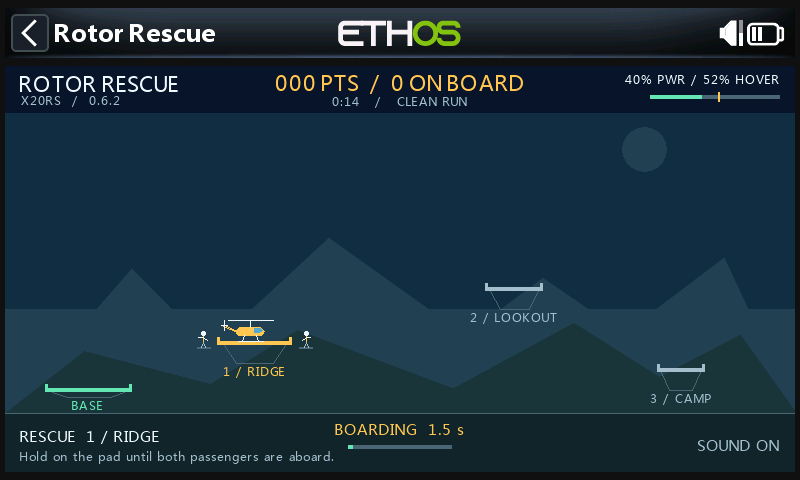
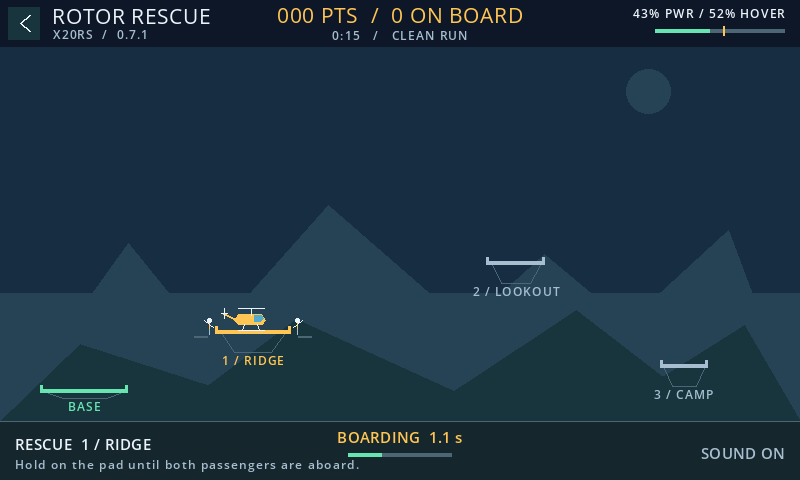
Show the full-screen game in the README screenshots
The return-to-base, boarding and mission-complete screenshots now show
version 0.7.1 in full screen. They are rendered at 800 x 480 by the test
bench from a scripted flight: `tools/headless.py --screenshots DIR` flies
the mission and saves the three images. The bench now draws text with
Open Sans at sizes and letter spacing fitted to the X20RS simulator, so
the renders match its layout and fonts closely. The System menu
screenshot stays as captured in the simulator.

Claude-Session: https://claude.ai/code/session_01Ei88cMha1tnHDR3eNSNN3E

diff --git a/tools/headless.py b/tools/headless.py
@@ -29,7 +29,8 @@ from PIL import Image, ImageChops, ImageDraw, ImageFont
 
 ROOT = os.path.dirname(os.path.dirname(os.path.abspath(__file__)))
 SCRIPT_DIR = os.path.join(ROOT, "scripts", "RotorRescue")
-FONT_PATH = "/usr/share/fonts/truetype/dejavu/DejaVuSans.ttf"
+FONT_FALLBACK = "/usr/share/fonts/truetype/dejavu/DejaVuSans.ttf"
+OPEN_SANS = "/usr/share/fonts/truetype/open-sans/OpenSans-{}.ttf"
 
 # Arbitrary but distinct values for the ETHOS constants main.lua reads.
 CONSTANTS = dict(
@@ -41,7 +42,11 @@ CONSTANTS = dict(
     KEY_ENTER_FIRST=300, KEY_ENTER_BREAK=301, KEY_ENTER_LONG=302,
     KEY_EXIT_FIRST=310, KEY_EXIT_BREAK=311, KEY_PAGE_BREAK=320,
 )
-FONT_PX = {10: 13, 11: 16, 12: 19, 13: 25, 14: 32}
+# ETHOS font -> Open Sans weight, size (px), letter spacing (px) and the gap from the text's y to
+# its cap tops. Fitted to text in the X20RS simulator (ETHOS 26.1.2); DejaVu Sans stands in when
+# Open Sans is not installed (apt install fonts-open-sans).
+FONT_STYLE = {10: ("Semibold", 12, 1.1, 2), 11: ("Semibold", 15, 0.4, 3), 12: ("Regular", 21, 0.6, 3),
+              13: ("Regular", 25, -0.2, 3), 14: ("Regular", 32, 0.0, 3)}
 
 
 class Canvas:
@@ -58,10 +63,19 @@ class Canvas:
         self.ops = 0
 
     def font_obj(self, font=None):
-        size = FONT_PX.get(font or self.font, 16)
-        if size not in self._fonts:
-            self._fonts[size] = ImageFont.truetype(FONT_PATH, size)
-        return self._fonts[size]
+        """(Pillow font, letter spacing, cap offset) standing in for an ETHOS font."""
+        key = font or self.font
+        if key not in self._fonts:
+            weight, size, spacing, cap = FONT_STYLE.get(key, FONT_STYLE[12])
+            path = OPEN_SANS.format(weight)
+            if not os.path.exists(path):
+                path, spacing = FONT_FALLBACK, 0.0
+            self._fonts[key] = (ImageFont.truetype(path, size), spacing, cap)
+        return self._fonts[key]
+
+    def text_width(self, s):
+        font, spacing, _ = self.font_obj()
+        return sum(font.getlength(ch) for ch in s) + spacing * max(0, len(s) - 1)
 
     def _box(self):
         a, b = self.limit, self.clip
@@ -111,15 +125,20 @@ class Canvas:
                    (x - r, y - r, x + r, y + r))
 
     def text(self, x, y, s, flags):
-        font, c = self.font_obj(), self.color
-        tw = font.getlength(s)
+        (font, spacing, cap), c = self.font_obj(), self.color
+        tw = self.text_width(s)
         if flags == CONSTANTS["CENTERED"]:
             x -= tw / 2
         elif flags == CONSTANTS["RIGHT"]:
             x -= tw
-        th = FONT_PX.get(self.font, 16)
-        self._draw(lambda d, ox, oy: d.text((x - ox, y - oy), s, font=font, fill=c),
-                   (x, y, x + tw, y + th * 1.3))
+        top = y + cap - font.getbbox("H")[1]
+
+        def draw(d, ox, oy):
+            cx = x
+            for ch in s:
+                d.text((cx - ox, top - oy), ch, font=font, fill=c)
+                cx += font.getlength(ch) + spacing
+        self._draw(draw, (x - 2, top, x + tw + 2, top + font.size * 1.5))
 
 
 class Sim:
@@ -211,8 +230,7 @@ class Sim:
                 sim.canvas.clip = (int(x), int(y), int(x + w), int(y + h))
 
         def text_size(s):
-            f = sim.canvas.font_obj()
-            return int(f.getlength(s)), FONT_PX.get(sim.canvas.font, 16)
+            return int(sim.canvas.text_width(s)), sim.canvas.font_obj()[0].size
 
         lcd.color = color
         lcd.font = font
@@ -419,6 +437,34 @@ def fly_mission(sim, out=None, max_seconds=240):
     return g.mode
 
 
+def readme_screenshots(out):
+    """Fly the mission and save the README gameplay screenshots (800 x 480, full screen)."""
+    sim = Sim(800, 480)
+    g, shots = sim.g, {}
+    sim.thr = -1
+    for _ in range(30):
+        sim.step(check=False)
+    t0 = sim.clock
+    while g.mode == "flight" and sim.clock - t0 < 240:
+        sim.thr, sim.ail = autopilot(g, g.target)
+        if not sim.step(check=False):
+            continue
+        # Passengers walking to the door at Ridge.
+        if "boarding" not in shots and g.target == 2 and g.boarding is not None and g.boarding > 0.5:
+            shots["boarding"] = sim.canvas.img.copy()
+        # Heading home with all six, above Camp.
+        if "return-to-base" not in shots and g.target == 1 and not g.support and g.x < 64 and g.y > 16:
+            shots["return-to-base"] = sim.canvas.img.copy()
+    for _ in range(40):
+        sim.thr, sim.ail = -1, 0
+        sim.step(check=False)
+    shots["mission-complete"] = sim.canvas.img.copy()
+    os.makedirs(out, exist_ok=True)
+    for name, img in shots.items():
+        img.save(os.path.join(out, name + ".png"), optimize=True)
+    return sorted(shots)
+
+
 def ui_flows(sim):
     """Menus, a crash and a retry; returns a list of failed checks."""
     g, w, h, failures = sim.g, sim.w, sim.h, []
@@ -477,7 +523,11 @@ def main():
     ap = argparse.ArgumentParser(description=__doc__, formatter_class=argparse.RawDescriptionHelpFormatter)
     ap.add_argument("--frames", help="directory for PNG frames")
     ap.add_argument("--size", default="800x480", help="window size, e.g. 800x480 or 790x409")
+    ap.add_argument("--screenshots", help="save the README gameplay screenshots to this directory and stop")
     args = ap.parse_args()
+    if args.screenshots:
+        print("saved", ", ".join(readme_screenshots(args.screenshots)), "to", args.screenshots)
+        return
     w, h = (int(v) for v in args.size.split("x"))
     failed = False
     for clip in (False, True):

diff --git a/README.md b/README.md
@@ -62,7 +62,7 @@ For the smoothest flight, select a dedicated blank model with no heavy Lua dashb
 | --- | --- |
 | ![Two passengers wait beside the helicopter during boarding.](docs/images/boarding.png) | ![Mission complete after returning six passengers to Base.](docs/images/mission-complete.png) |
 
-The menu and gameplay screenshots were captured in the X20RS simulator with version 0.6.2, which still showed the ETHOS title bar.
+The gameplay screenshots show version 0.7.1 in full screen. They are rendered at 800 × 480 by the project's test bench (`python3 tools/headless.py --screenshots docs/images`) from a scripted flight, with fonts matched to the X20RS simulator. The System menu screenshot was captured in the X20RS simulator.
 
 ## Beat the score
 
@@ -79,7 +79,7 @@ The game lives in [`scripts/RotorRescue/game.lua`](scripts/RotorRescue/game.lua)
 - `tools/build_release.py` builds `dist/RotorRescue-<version>.zip` for **Lua library → Install Lua Scripts**. It follows FrSky's [Lua package format](https://github.com/FrSkyRC/ETHOS-Feedback-Community/blob/26.1/lua/frsky/ethos_lua_manifest.md): the files sit at the ZIP root next to `ethos_lua_manifest.json`, which lists every one of them. The ZIP also carries the license as `LICENSE.txt`. `packaging/` holds `INSTALL.txt` and the release notes.
 
 - `tools/make_sounds.py` synthesizes the engine sounds. It needs `numpy`.
-- `tools/headless.py` is a test bench, not a replacement for the FrSky simulators. It runs the game under Lua 5.4 against a mock of the ETHOS calls it uses, flies a full mission and the menus with scripted sticks, and checks that every partial repaint matches a full one. It also opens and closes the game several times to check that leaving it frees its memory. It needs `lupa` and `pillow`. Add `--frames DIR` to save PNG frames.
+- `tools/headless.py` is a test bench, not a replacement for the FrSky simulators. It runs the game under Lua 5.4 against a mock of the ETHOS calls it uses, flies a full mission and the menus with scripted sticks, and checks that every partial repaint matches a full one. It also opens and closes the game several times to check that leaving it frees its memory. Add `--screenshots DIR` to render the README gameplay screenshots instead. It needs `lupa` and `pillow`, plus the Open Sans font (`fonts-open-sans`) for text that looks like ETHOS. Add `--frames DIR` to save PNG frames.
 
 ## License
 
